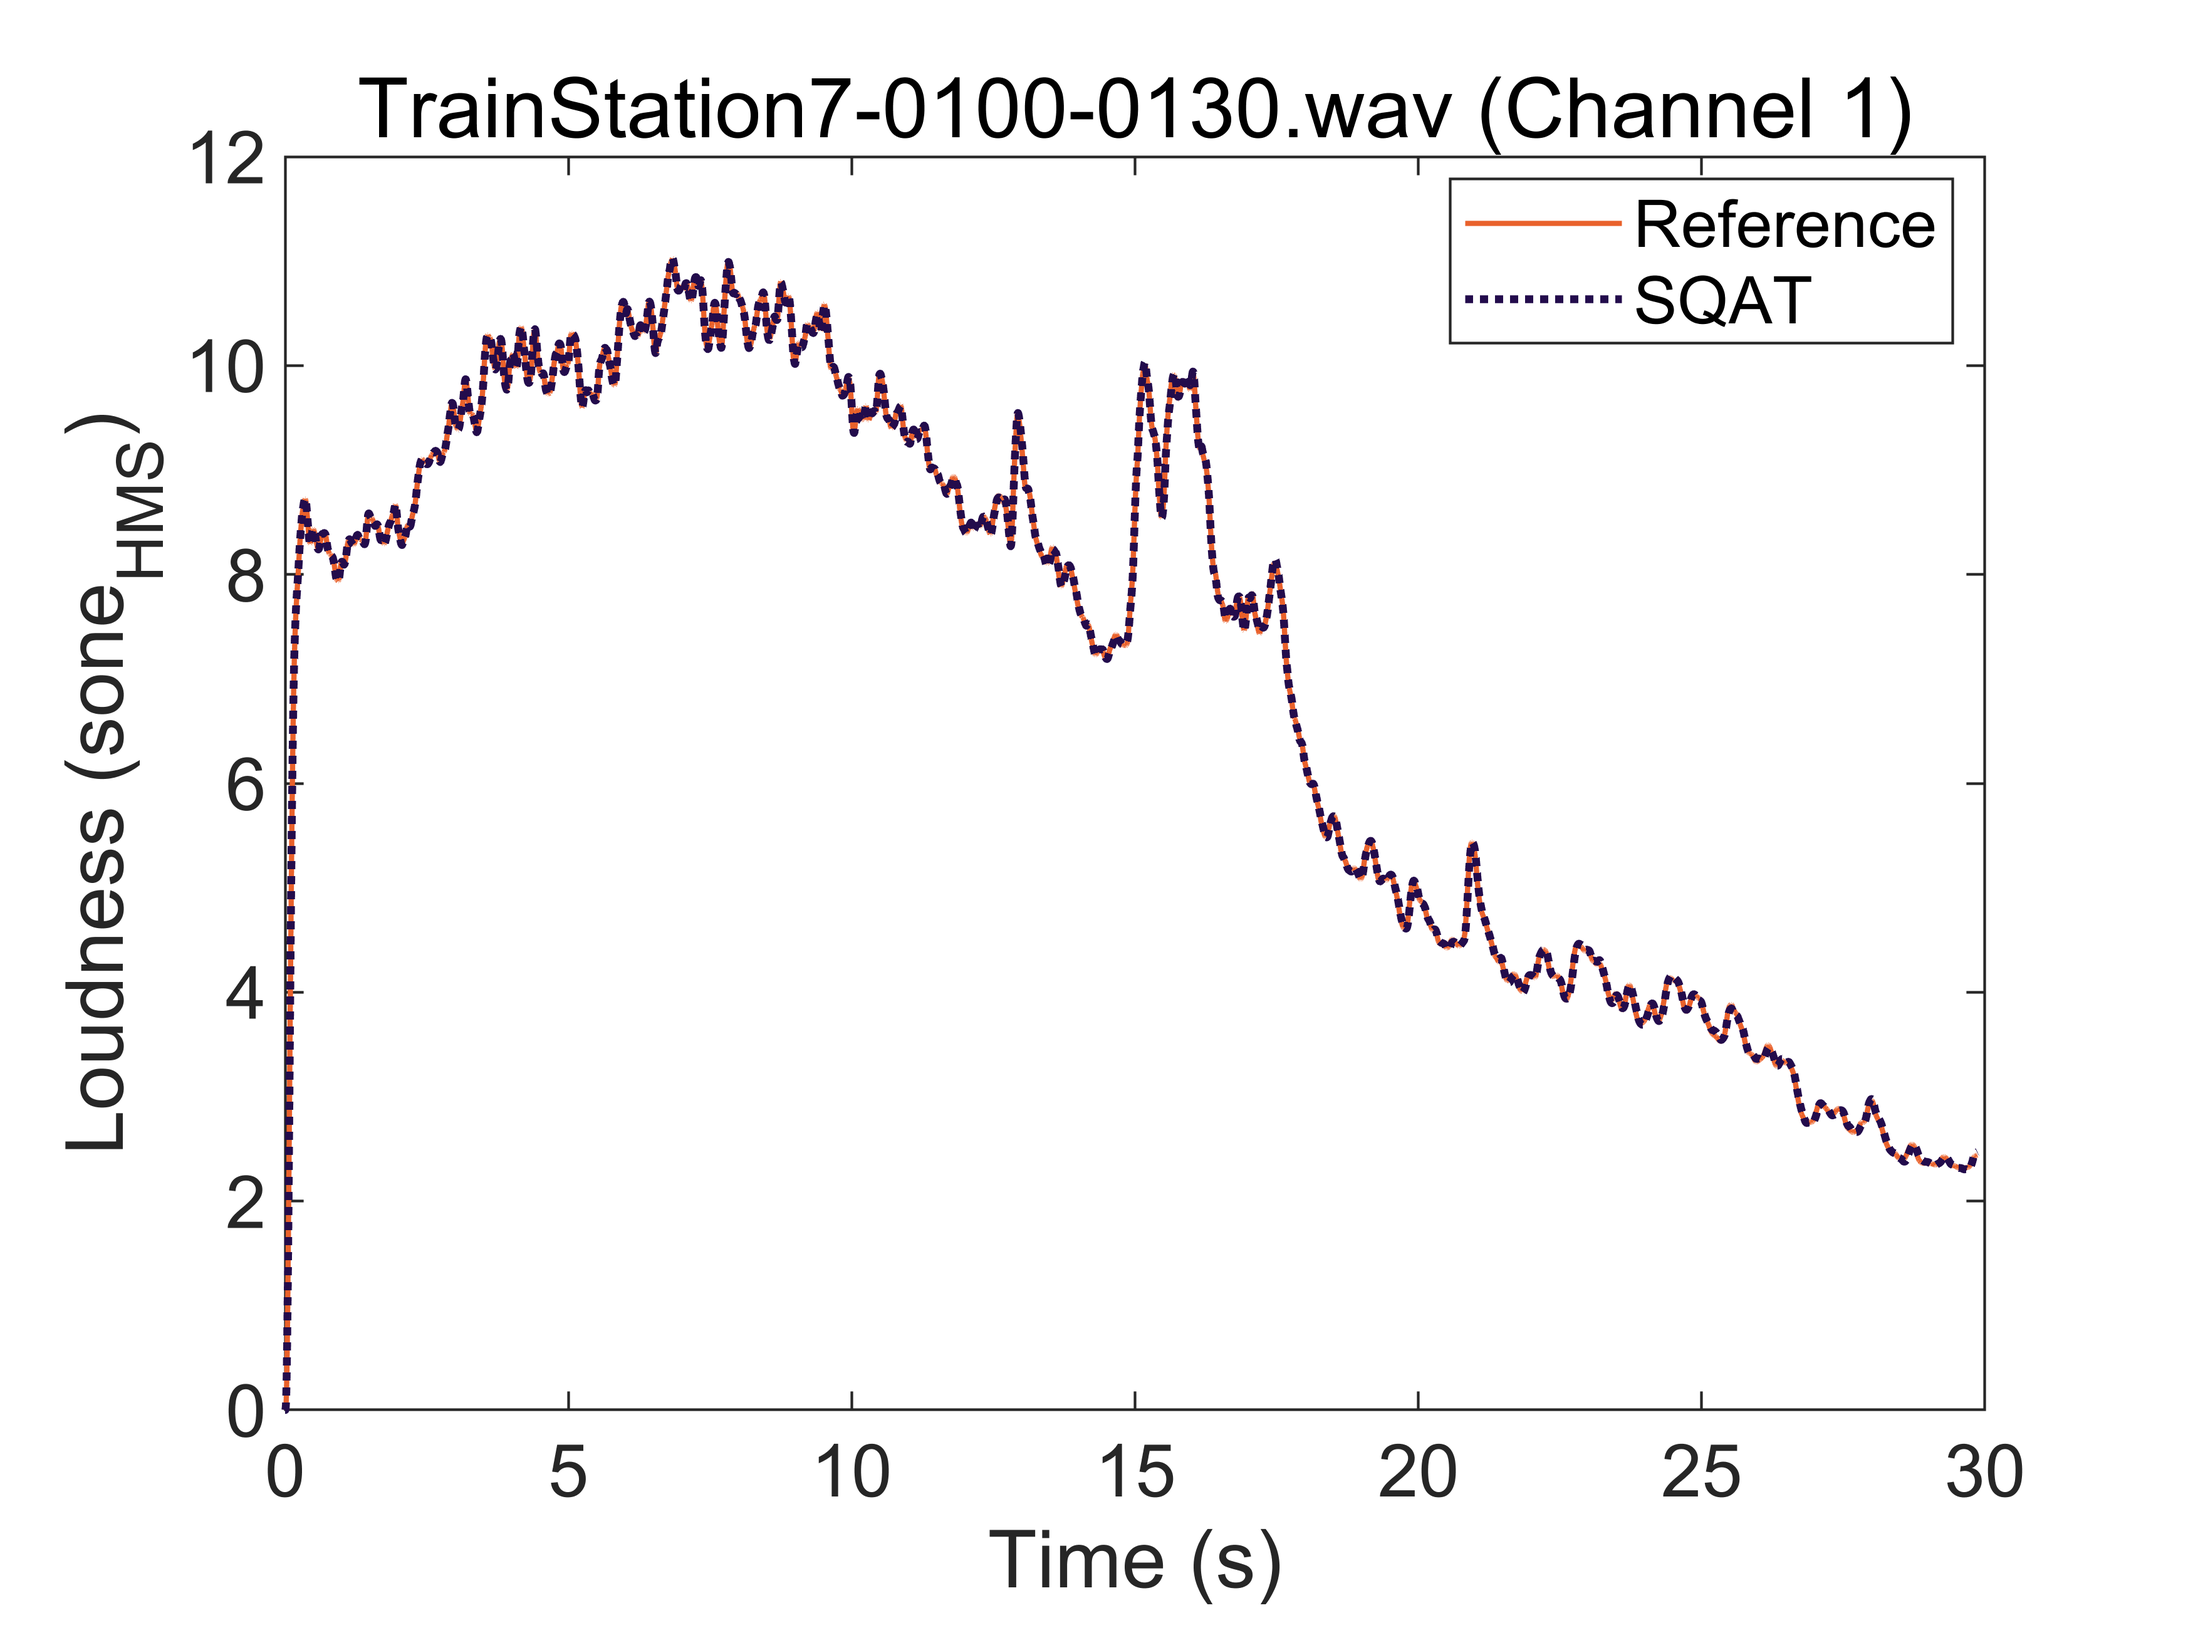
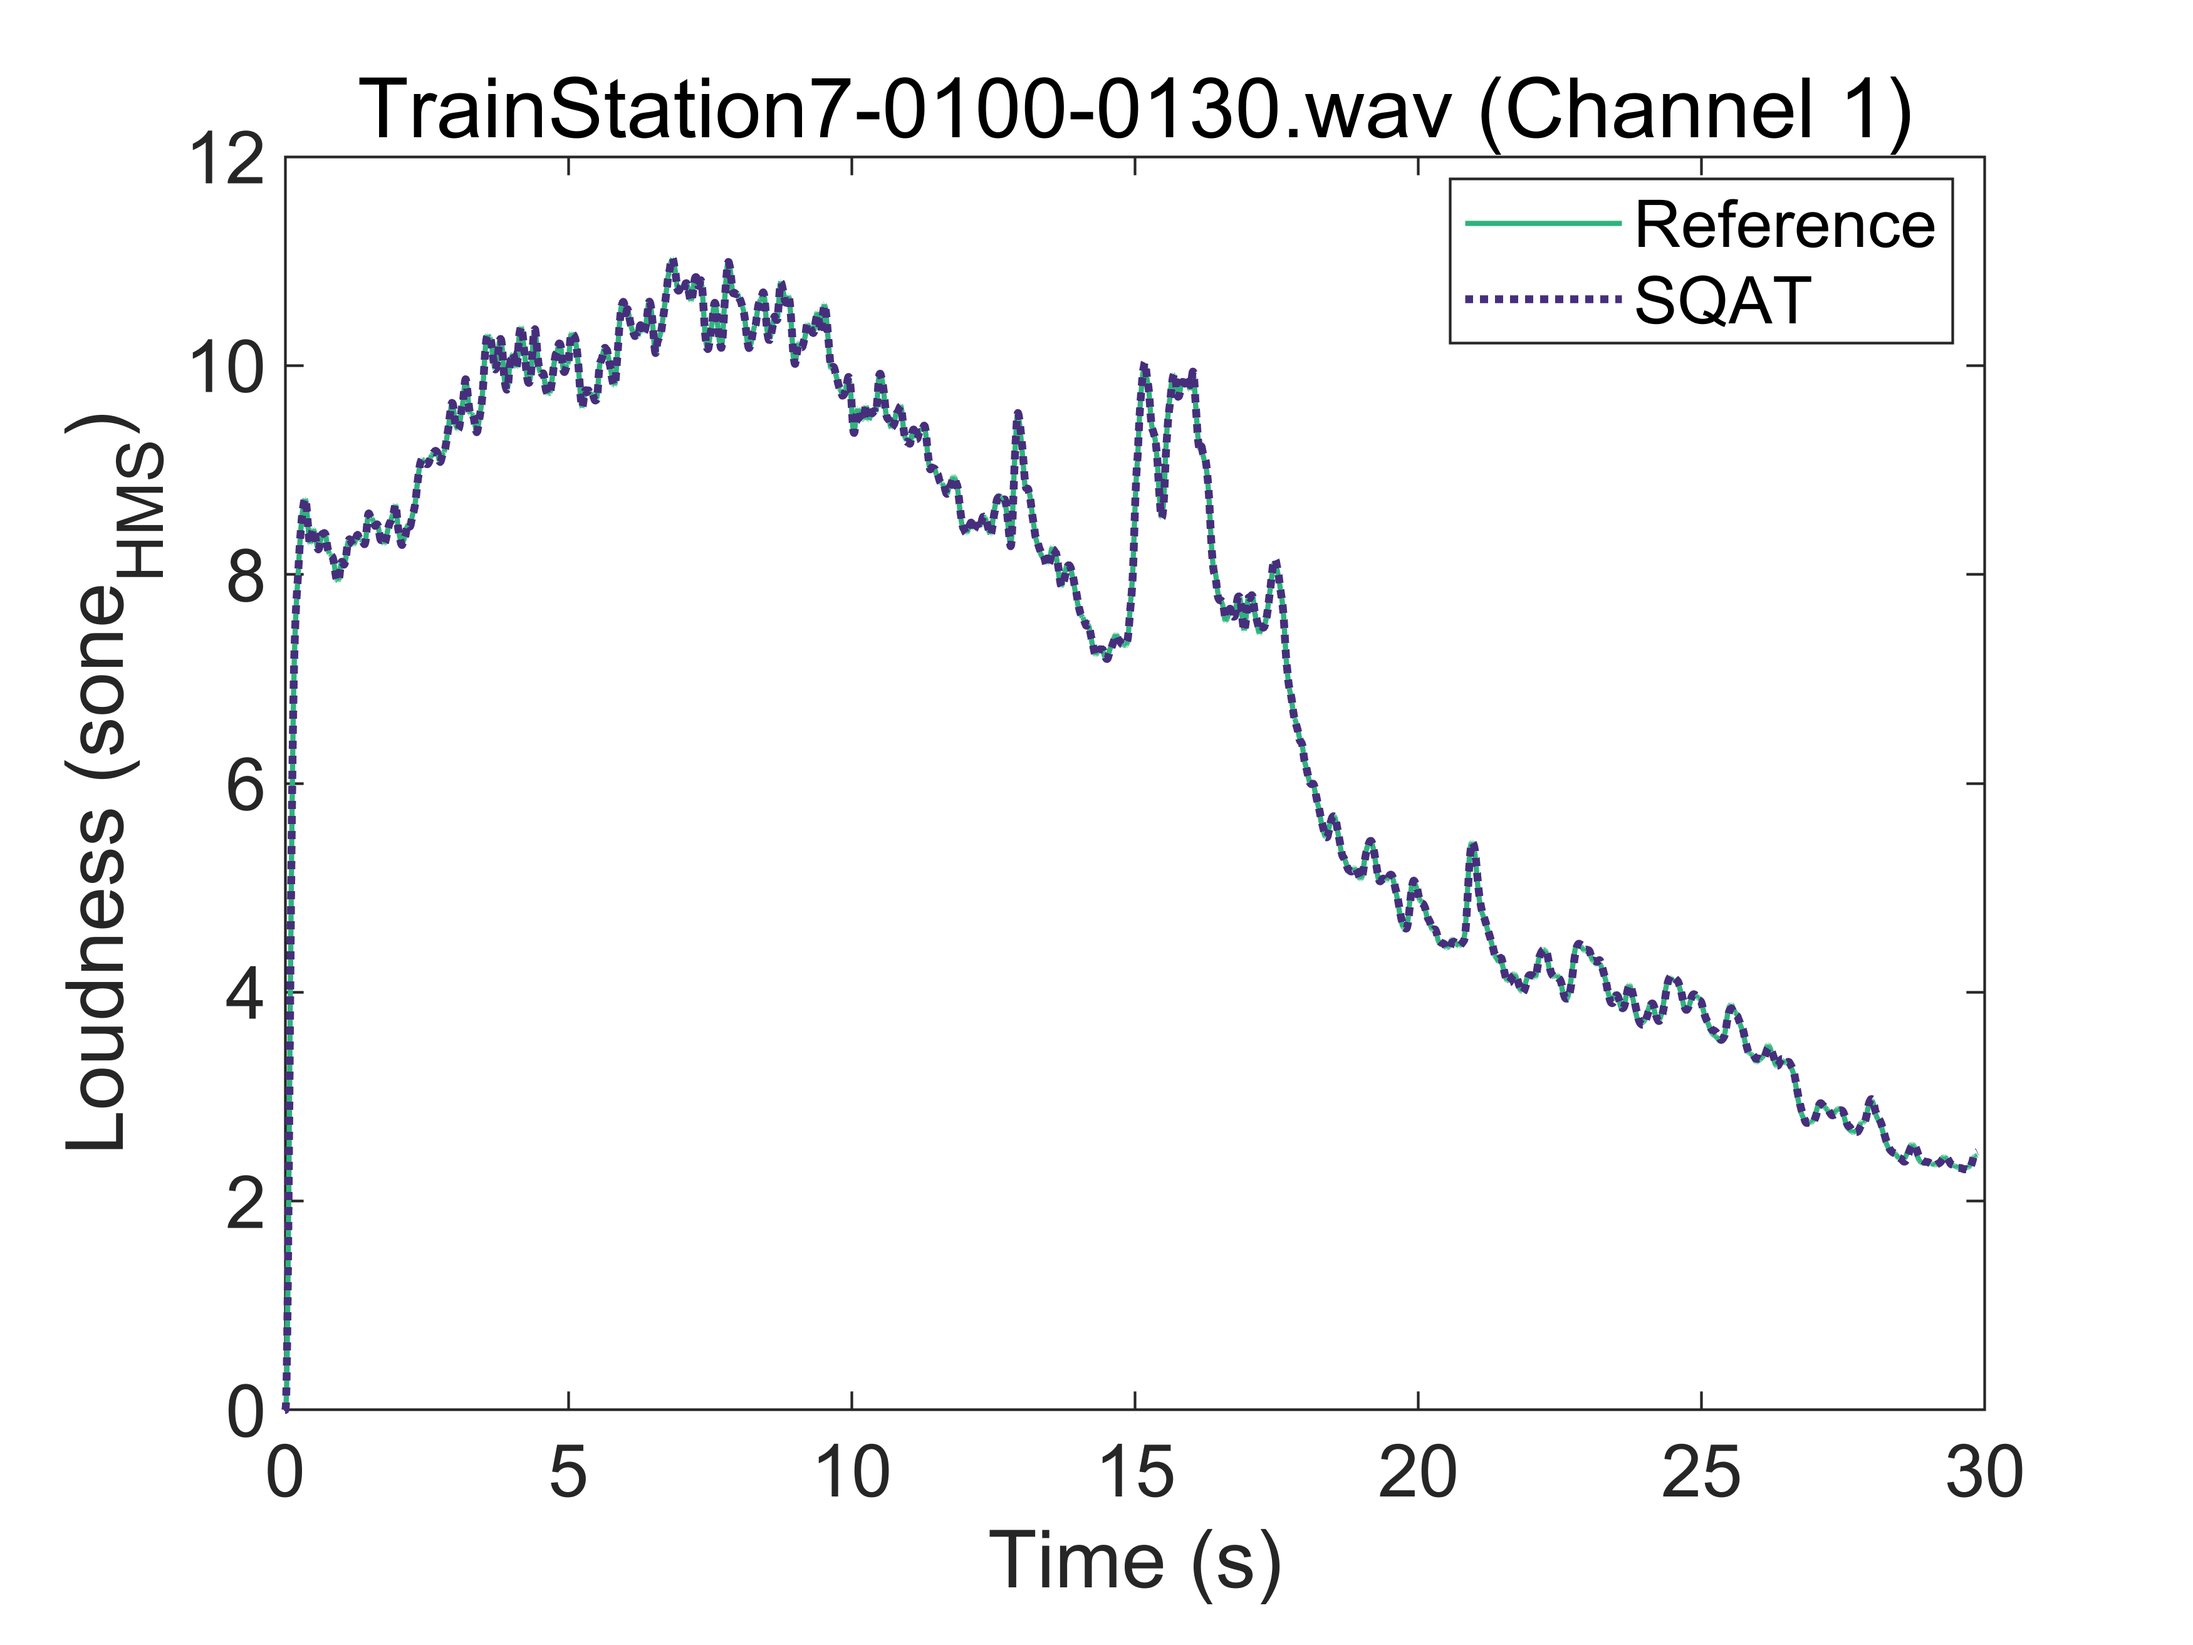
2_Loudness_ECMA418_2_software_comparison
- adopting visual identity from refmap
- updating results
- update input signal, now hosted in the reference signals folder

diff --git a/validation/Loudness_ECMA418_2/2_Loudness_ECMA418_2_software_comparison/Loudness_ECMA418_2_software_comparison.m b/validation/Loudness_ECMA418_2/2_Loudness_ECMA418_2_software_comparison/Loudness_ECMA418_2_software_comparison.m
@@ -14,23 +14,22 @@
 %   OUT = Loudness_ECMA418_2(insig, fs, fieldtype, time_skip, show)
 %   type <help Loudness_ECMA418_2> for more info
 %
-% Author: Gil Felix Greco, Braunschweig 31.01.2025
+% Author: Gil Felix Greco, Braunschweig 10.02.2025
 %%%%%%%%%%%%%%%%%%%%%%%%%%%%%%%%%%%%%%%%%%%%%%%%%%%%%%%%%%%%%%%%%%%%%%%%%%%%%%%%
 clc; clear all; close all;
 
-save_figs = 0; % save figure flag
+save_figs = 1; % save figure flag
 
-%% Load  binaural .wav file
+%% Load  stereo .wav file
  
-dir_sound = [basepath_SQAT 'sound_files' filesep 'verification_SQAT_ECMA418_2' filesep];
+dir_sound = [basepath_SQAT 'sound_files' filesep 'reference_signals' filesep];
 
+fileTag = 'ExStereo_';
 wav_file = 'TrainStation7-0100-0130';
 
-[insig, fs] = audioread([dir_sound wav_file '.wav']); 
+[insig, fs] = audioread([dir_sound fileTag wav_file '.wav']); 
 
-time_insig = (0 : length(insig)-1) ./ fs;  % time vector of the audio input, in seconds
-
-%% Compute loudness (binaural signal)
+%% Compute loudness (stereo signal)
 
 fieldtype = 'free-frontal'; % string (default: 'free-frontal'; or 'diffuse')
 time_skip = 304e-3;% time_skip, in seconds for statistical calculations (default: 0 seconds)
@@ -158,7 +157,7 @@ set(h,'Units','Inches');
 pos = get(h,'Position');
 set(h,'PaperPositionMode','Auto','PaperUnits','Inches','PaperSize',[pos(3), pos(4)])
 
-cmap  = load('cmap_inferno.txt');
+cmap  = load('cmap_viridis.txt');
 cmap1 = 166;
 cmap2 = 34;
 
@@ -207,7 +206,7 @@ end
 
 function il_plt_avgSpecific( yRef, ySQAT, label_title, save_figs, label_fig)
 
-cmap  = load('cmap_inferno.txt');
+cmap  = load('cmap_viridis.txt');
 cmap1 = 166;
 cmap2 = 34;
 
@@ -307,7 +306,7 @@ str_xlabel = {'Ch1';'Ch2';'Combined binaural'};
 br=bar(str_xlabel, single_values);
 ylabel("Loudness (sone_{HMS})")
 
-cMap = load('cmap_inferno.txt');
+cMap  = load('cmap_viridis.txt');
 colororder([cMap(166, :); cMap(34, :)])
 
 for bb = 1:length(br)

diff --git a/validation/Loudness_ECMA418_2/2_Loudness_ECMA418_2_software_comparison/README.md b/validation/Loudness_ECMA418_2/2_Loudness_ECMA418_2_software_comparison/README.md
@@ -6,7 +6,8 @@ Green et al. [2], is licenced under Creative Commons Attribution 4.0.
 <!-- Artemis Suite 15.7-->
 
 # How to use this code
-This is a standalone code. Therefore, no extra steps are required to run it.
+The following sound file is required: `ExStereo_TrainStation7-0100-0130.wav`, which is stored in the `sound_files\reference_signals` folder. 
+
 
 # Results
 
@@ -33,7 +34,7 @@ This is a standalone code. Therefore, no extra steps are required to run it.
 
 
 # Log
-Created by Gil Felix Greco (31.01.2025)
+Last checked by: Gil Felix Greco (10.02.2025)
 
 
 
